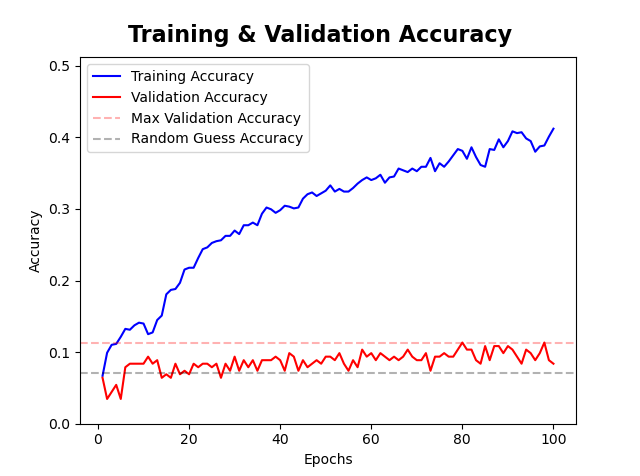
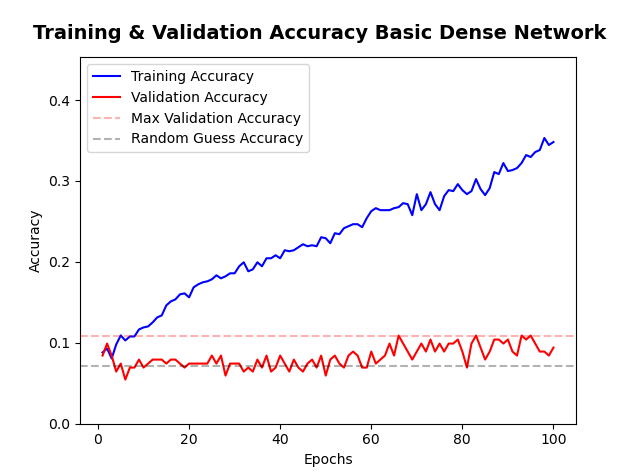
Basic nn accuracy and loss figures update

diff --git a/03_basic_nn_model_build.py b/03_basic_nn_model_build.py
@@ -111,27 +111,22 @@ epochs = list(range(1, len(loss_values)+1))
 
 #fig setup including twin axis
 fig, ax = plt.subplots()
-fig.suptitle('Training & Validation Loss', y=0.95, fontsize=16, fontweight='bold')
-ax2 = ax.twinx()
+fig.suptitle('Training & Validation Loss Basic Dense Network', y=0.95, fontsize=14, fontweight='bold')
 
 #plotting training and validation loss
-train_loss_line = ax.plot(epochs, loss_values, 'b', label='Training Loss')
-val_loss_line = ax2.plot(epochs, val_loss, 'r', label='Validation Loss')
-val_hline = ax2.axhline(min(val_loss), c='r', alpha=0.3, ls='dashed', label='Min Validation Loss')
+ax.plot(epochs, loss_values, 'b', label='Training Loss')
+ax.plot(epochs, val_loss, 'r', label='Validation Loss')
+ax.axhline(min(val_loss), c='r', alpha=0.3, ls='dashed', label='Min Validation Loss')
 
 #setting axis limits
-ax.set_ylim([min(loss_values)-0.5, min(loss_values)+2])
-ax2.set_ylim([min(val_loss)-0.5, min(val_loss)+2])
+ax.set_ylim([min(loss_values)-0.5, min(loss_values)+3])
 
 #plotting legend
-lns = train_loss_line + val_loss_line
-labs = [l.get_label() for l in lns]
-ax.legend(lns, labs, loc=0)
+ax.legend()
 
 #plotting axis labels
 ax.set_xlabel('Epochs')
-ax.set_ylabel('Training Loss')
-ax2.set_ylabel('Validation Loss')
+ax.set_ylabel('Loss')
 
 train_predictions = simple_model.predict(train_images[:100])
 val_predictions = simple_model.predict(test_images[:100])
@@ -144,7 +139,7 @@ val_accuracy = history_dict['val_accuracy']
 
 #fig setup including twin axis
 fig2, ax = plt.subplots()
-fig2.suptitle('Training & Validation Accuracy', y=0.95, fontsize=16, fontweight='bold')
+fig2.suptitle('Training & Validation Accuracy Basic Dense Network', y=0.95, fontsize=14, fontweight='bold')
 
 #plotting training and validation loss
 ax.plot(epochs, accuracy_values, 'b', label='Training Accuracy')
